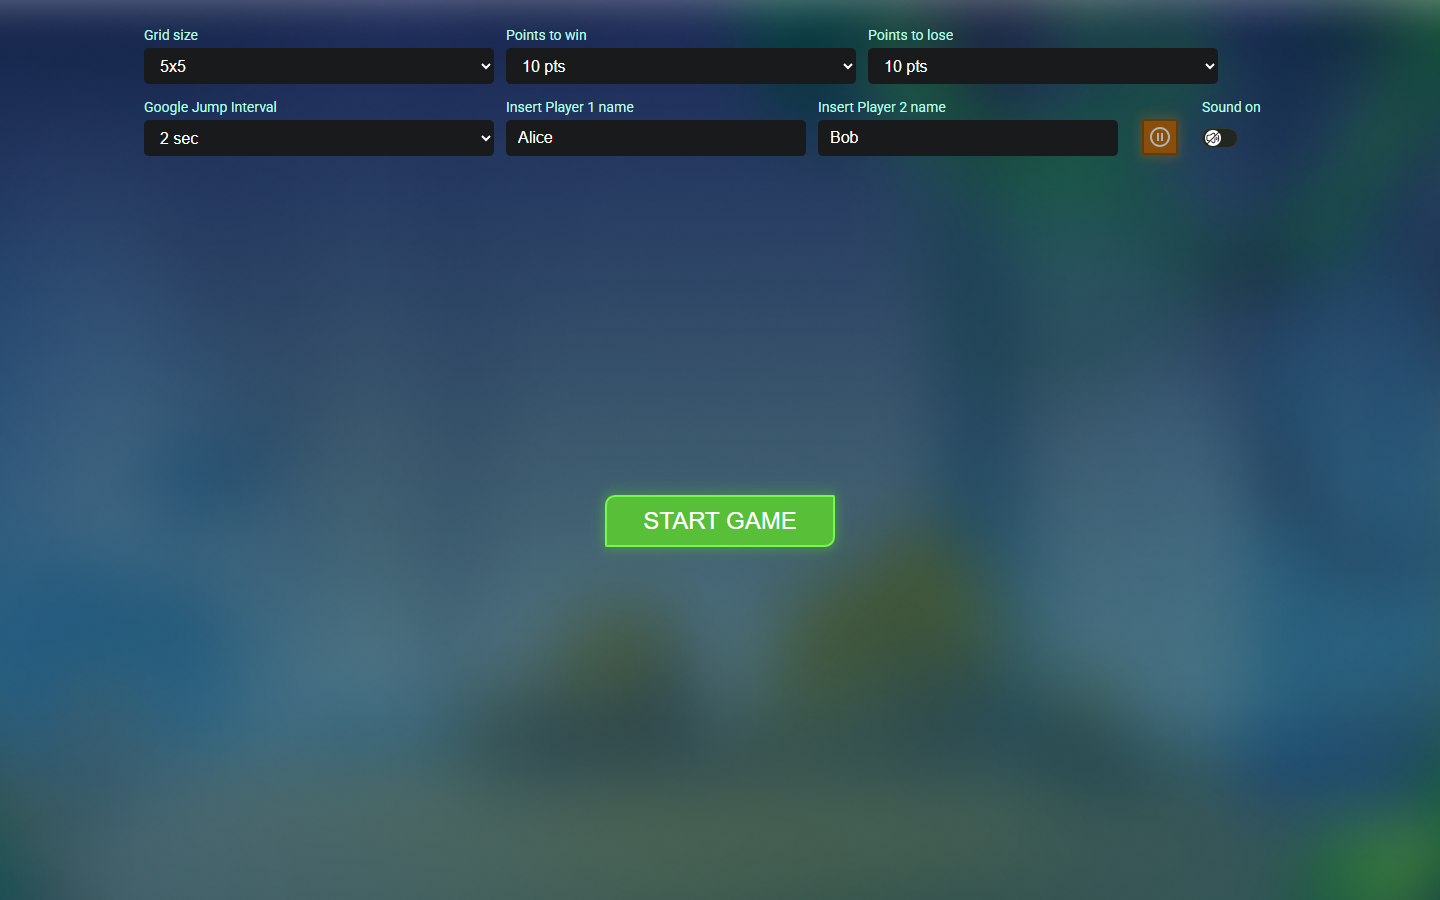
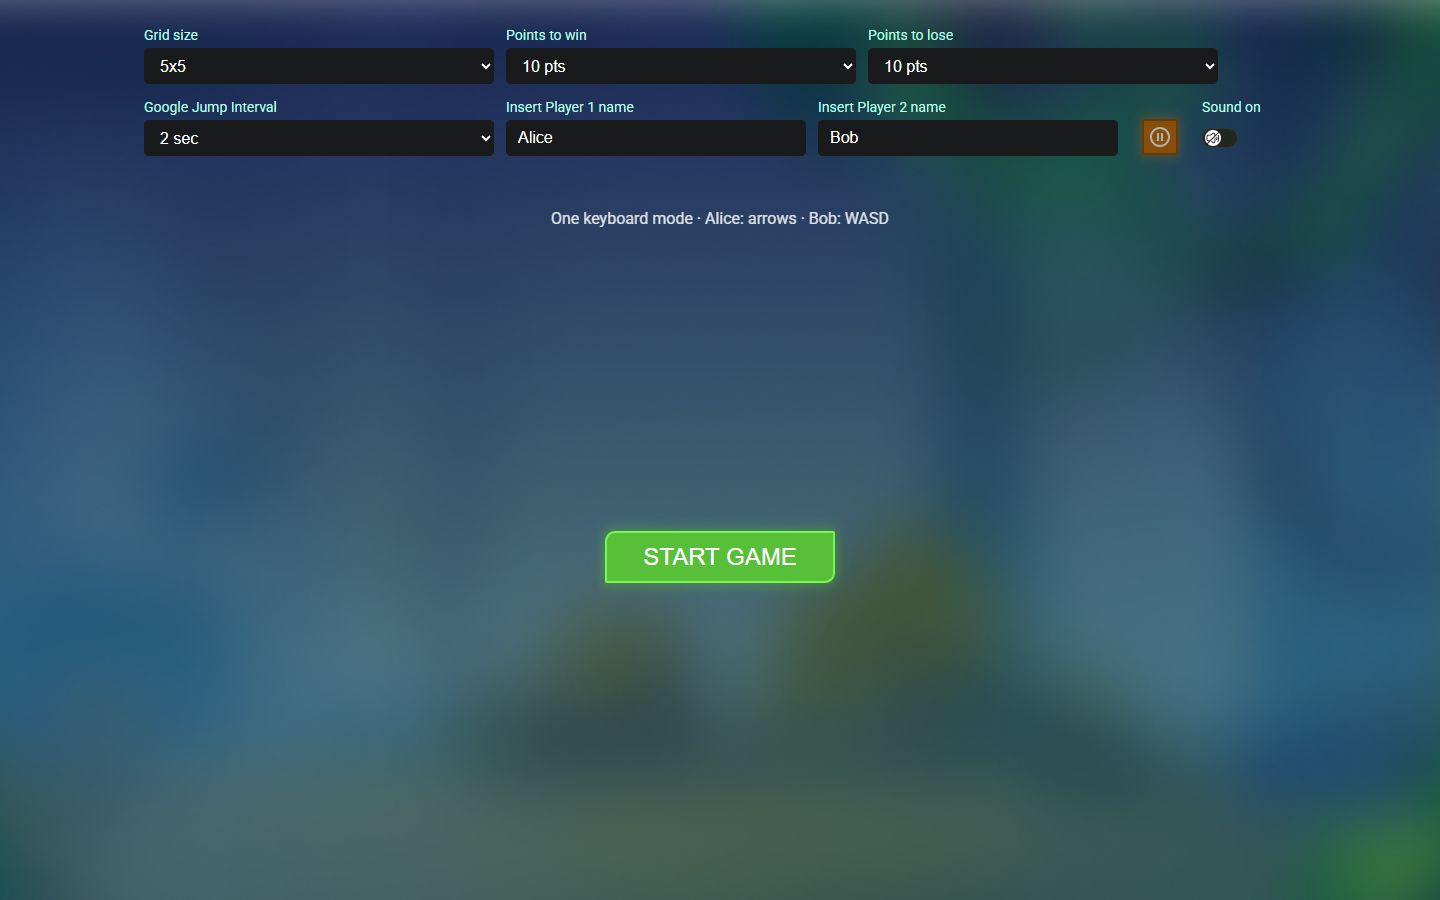
Подпись с режимом игры и ролью игрока, обновлены скриншоты
В игре показывается текущий режим: «One keyboard mode» с управлением
обоих игроков или «Online mode» с ролью и клавишами этой вкладки.

Changed region(s): [[0.4062, 0.5289, 0.5938, 0.6533], [0.375, 0.2178, 0.625, 0.2489]]

diff --git a/view.js b/view.js
@@ -217,6 +217,7 @@ export class View {
         const gameInterfaceElement = gameInterfaceComponent.render(dto);
         const gridComponent = new GridComponent();
         const gridElement = gridComponent.render(dto);
+        const modeLabelElement = new ModeLabelComponent().render(dto);
 
         rootElement.innerHTML = '';
 
@@ -229,10 +230,10 @@ export class View {
                     }
                 });
                 const startElement = startComponent.render();
-                rootElement.append(settingsElement, startElement);
+                rootElement.append(settingsElement, modeLabelElement, startElement);
                 break;
             case GameStatuses.IN_PROGRESS: {
-                rootElement.append(settingsElement, gameInterfaceElement, this.#renderNotice(), gridElement);
+                rootElement.append(settingsElement, gameInterfaceElement, modeLabelElement, this.#renderNotice(), gridElement);
                 break;
             }
             case GameStatuses.WIN:
@@ -259,7 +260,7 @@ export class View {
                     },
                 });
                 const pauseElement = pauseComponent.render()
-                rootElement.append(settingsElement, gameInterfaceElement, this.#renderNotice(), gridElement, pauseElement);
+                rootElement.append(settingsElement, gameInterfaceElement, modeLabelElement, this.#renderNotice(), gridElement, pauseElement);
                 break;
             }
         }
@@ -637,6 +638,29 @@ class PauseComponent {
 
         pauseWrapper.append(pauseTitle, pauseButtonWrapper);
         return pauseContainer;
+    }
+}
+
+// Подпись с текущим режимом игры: сразу видно, кем управляет эта вкладка
+class ModeLabelComponent {
+    render(dto) {
+        const label = document.createElement('p');
+        label.classList.add('mode-label');
+
+        const player1Name = dto.player1Name || 'Player 1';
+        const player2Name = dto.player2Name || 'Player 2';
+
+        if (dto.playersCount === 1) {
+            // Одна вкладка: оба персонажа управляются с одной клавиатуры
+            label.textContent = `One keyboard mode · ${player1Name}: arrows · ${player2Name}: WASD`;
+        } else {
+            // Онлайн: эта вкладка управляет только своим персонажем
+            const myName = dto.role === 1 ? player1Name : player2Name;
+            const myControls = dto.role === 1 ? 'arrows' : 'WASD';
+            label.textContent = `Online mode · You are ${myName} · Controls: ${myControls}`;
+        }
+
+        return label;
     }
 }
 

diff --git a/css/style.css b/css/style.css
@@ -120,6 +120,17 @@ body {
     visibility: hidden;
 }
 
+/* Подпись с режимом игры (одна клавиатура / онлайн) */
+.mode-label {
+    align-self: center;
+    margin-bottom: 12px;
+    font-size: 16px;
+    line-height: 1.5;
+    color: #fff;
+    opacity: 0.85;
+    text-align: center;
+}
+
 .notice-text {
     font-weight: 400;
     font-size: 18px;
